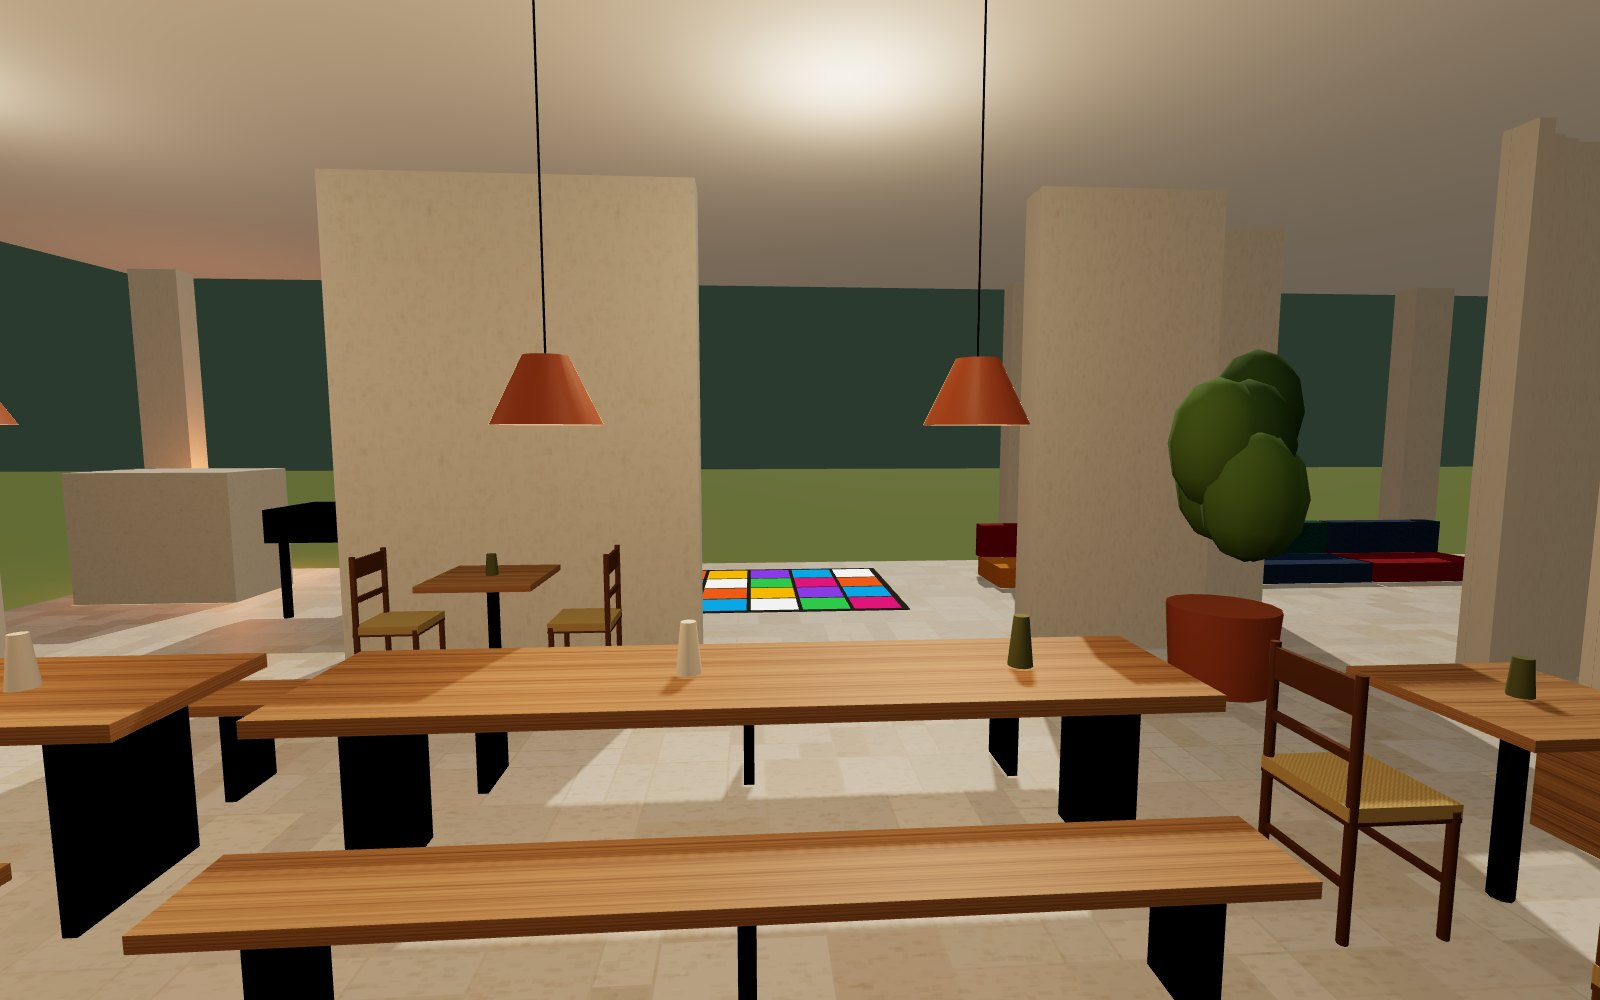
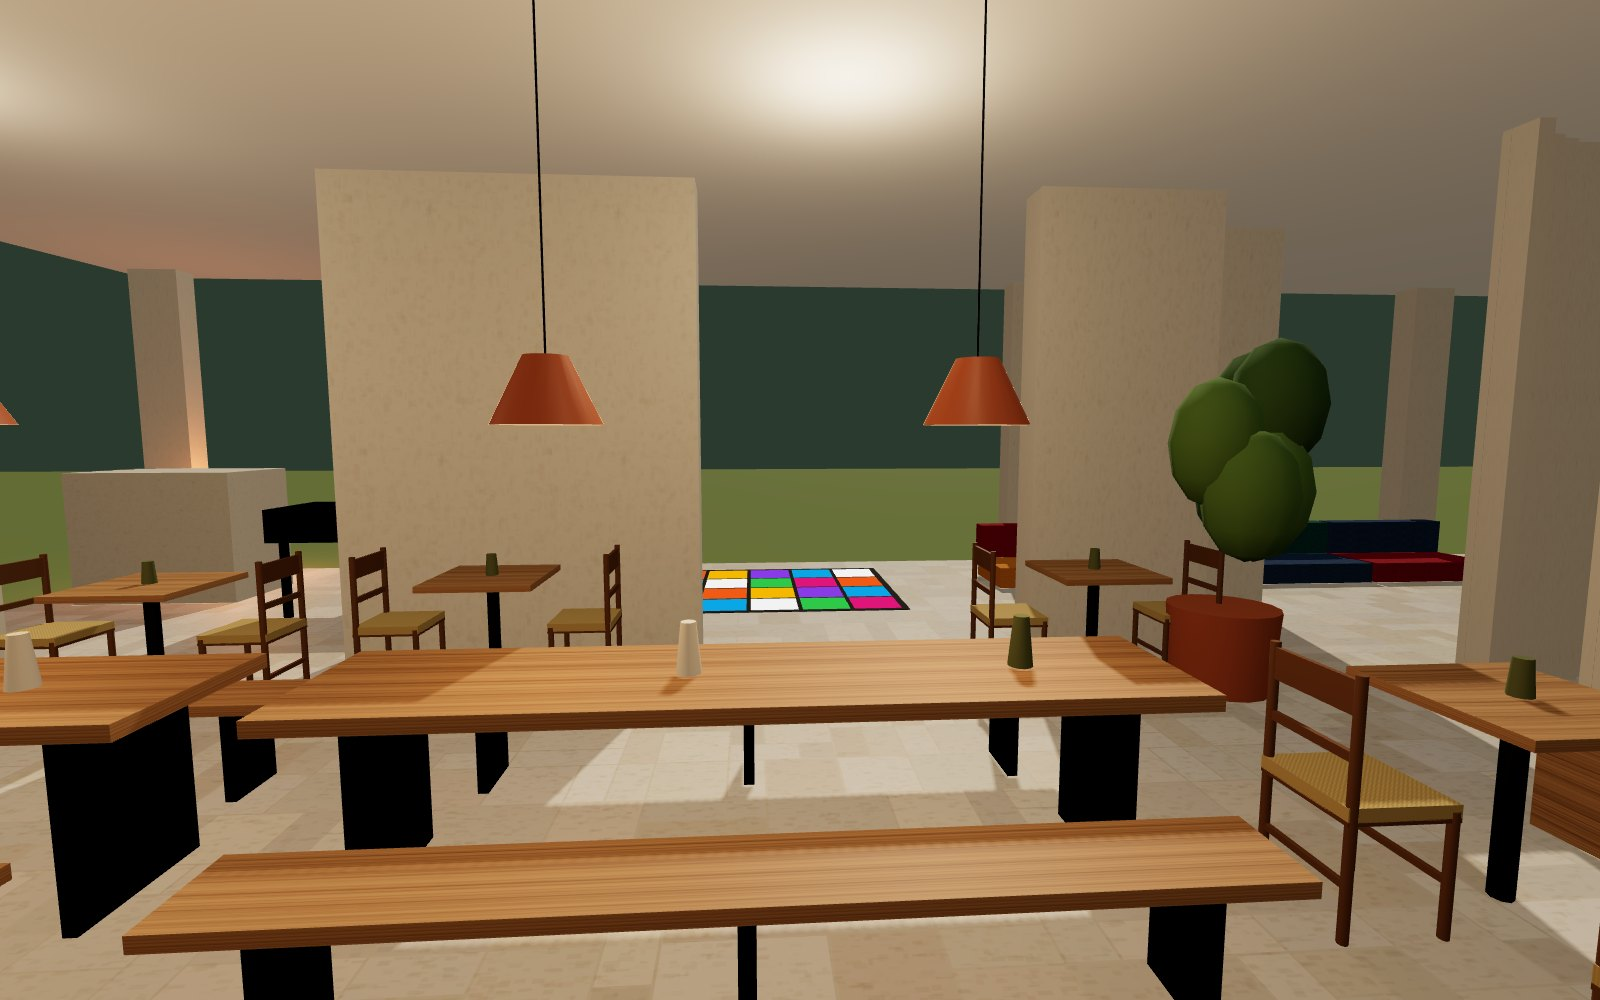
Sala: rimessi i tavolini, tolto solo quello nel passaggio verso la lounge
Claude-Session: https://claude.ai/code/session_01QZXxqty357DcebAAL5Vpaf

diff --git a/render-3d/sala-tavoli-misti/sorgente/pianoterra.js b/render-3d/sala-tavoli-misti/sorgente/pianoterra.js
@@ -385,7 +385,7 @@ else { box(P(210), P(1450), HS, HS + 0.06, P(840), P(1110), M('#e9e2d6', { trans
   const smallT = (px, pz, rotChairs) => { const x = P(px), z = P(pz); box(x - 0.35, x + 0.35, 0.72, 0.76, z - 0.35, z + 0.35, oakM); cyl(x, z, 0.04, 0, 0.72, ironM, 8); box(x - 0.25, x + 0.25, 0, 0.02, z - 0.25, z + 0.25, ironM);
     if (rotChairs) { straw(x - 0.6, z, Math.PI / 2, 0); straw(x + 0.6, z, -Math.PI / 2, 0); } else { straw(x, z - 0.6, 0, 0); }
     cyl(x, z, 0.04, 0.76, 0.9, M(tc[Math.floor(rnd() * 3)]), 10, 0.03); };
-  for (const [px, pz] of [[1040, 785]]) smallT(px, pz, true);  // only one: the two openings to the lounge stay free
+  for (const [px, pz] of [[720, 780], [1040, 785], [1200, 775]]) smallT(px, pz, true);  // one removed (the one in the lounge opening)
   // banquette along the east wall with two little tables
   const bq = boucle('#7f8f4e'); box(P(1388), P(1424), 0, 0.45, P(690), P(820), oakM); box(P(1390), P(1424), 0.45, 0.55, P(692), P(818), bq); box(P(1410), P(1424), 0.55, 1.05, P(692), P(818), bq);
   smallT(1340, 720, false); smallT(1340, 790, false);
